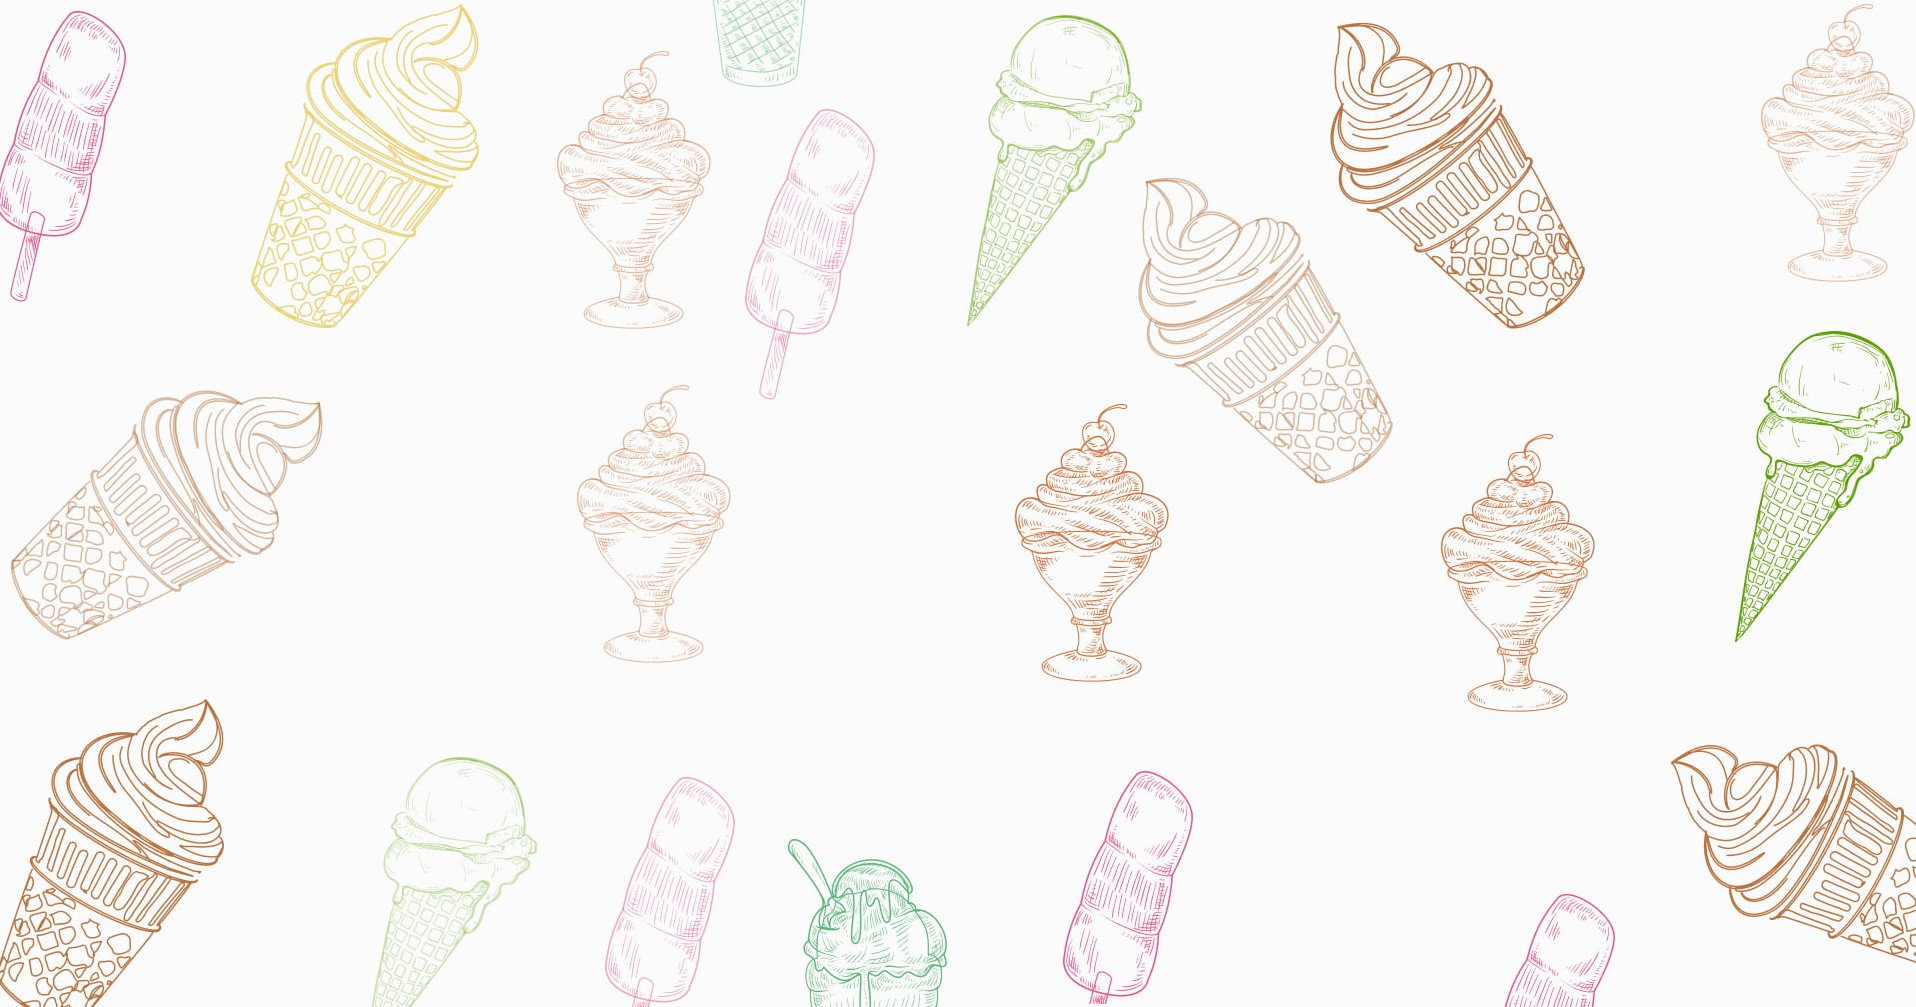
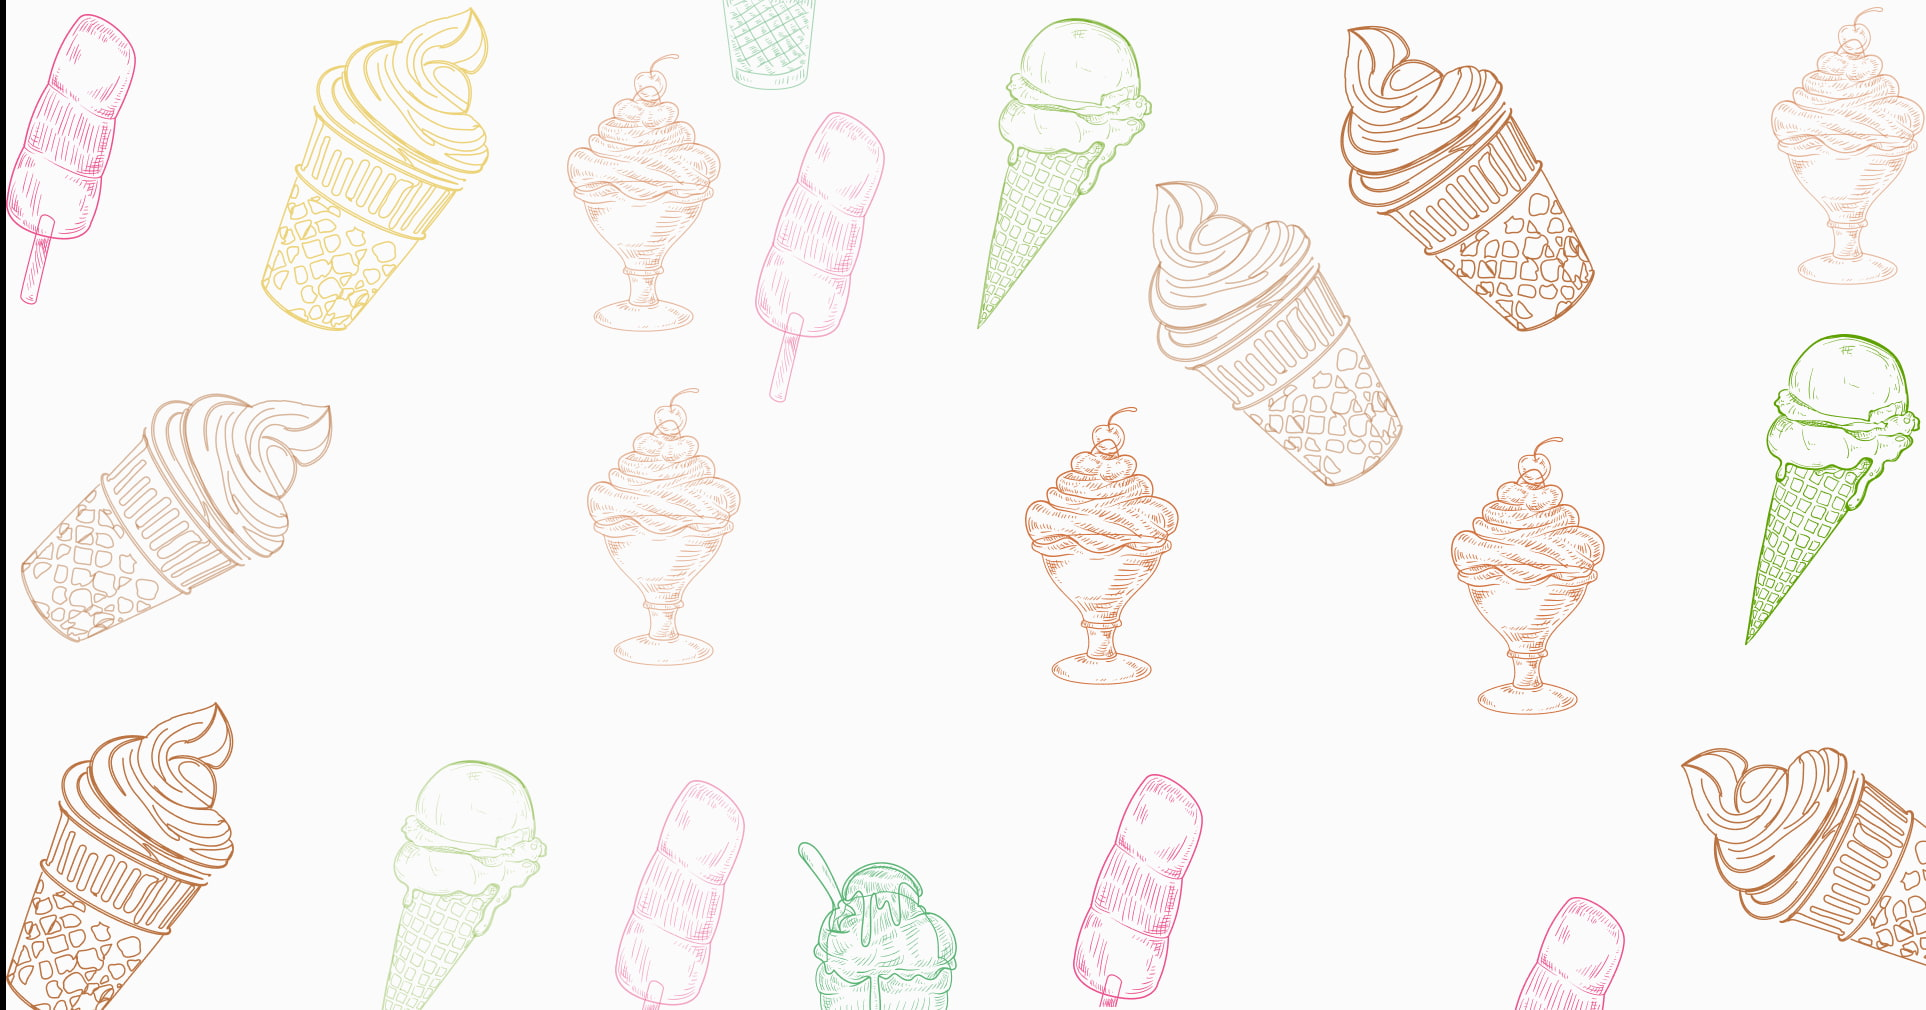
fix

diff --git a/src/partials/reviews.html b/src/partials/reviews.html
@@ -17,9 +17,9 @@
     <div class="slider">
       <div class="reviews__pic">
       <picture>
-        <source srcset="./images/reviews/foto-lg@1x.webp 1x, ./images/reviews/foto-lg@2x.webp 2x" type="image/webp"/>
-        <source srcset="./images/reviews/foto-lg@1x.png 1x, ./images/reviews/foto-lg@2x.png 2x" type="image/png" />
-        <img src="./images/reviews/foto-lg@1x.png" alt="Photo" /> 
+        <source srcset="./images/reviews/foto-3-lg@1x.webp 1x, ./images/reviews/foto-3-lg@2x.webp 2x" type="image/webp"/>
+        <source srcset="./images/reviews/foto-3-lg@1x.png 1x, ./images/reviews/foto-3-lg@2x.png 2x" type="image/png" />
+        <img src="./images/reviews/foto-3-lg@1x.png" alt="Photo" /> 
       </picture>
     </div>
       <p class="review">
@@ -30,9 +30,9 @@
     <div class="slider">
       <div class="reviews__pic">
       <picture>
-        <source srcset="./images/reviews/foto-lg@1x.webp 1x, ./images/reviews/foto-lg@2x.webp 2x" type="image/webp"/>
-        <source srcset="./images/reviews/foto-lg@1x.png 1x, ./images/reviews/foto-lg@2x.png 2x" type="image/png" />
-        <img src="./images/reviews/foto-lg@1x.png" alt="Photo" /> 
+        <source srcset="./images/reviews/foto-2-lg@1x.webp 1x, ./images/reviews/foto-2-lg@2x.webp 2x" type="image/webp"/>
+        <source srcset="./images/reviews/foto-2-lg@1x.png 1x, ./images/reviews/foto-2-lg@2x.png 2x" type="image/png" />
+        <img src="./images/reviews/foto-2-lg@1x.png" alt="Photo" /> 
       </picture>
     </div>
       <p class="review">
@@ -43,9 +43,9 @@
     <div class="slider">
       <div class="reviews__pic">
       <picture>
-        <source srcset="./images/reviews/foto-lg@1x.webp 1x, ./images/reviews/foto-lg@2x.webp 2x" type="image/webp"/>
-        <source srcset="./images/reviews/foto-lg@1x.png 1x, ./images/reviews/foto-lg@2x.png 2x" type="image/png" />
-        <img src="./images/reviews/foto-lg@1x.png" alt="Photo" /> 
+        <source srcset="./images/reviews/foto-1-lg@1x.webp 1x, ./images/reviews/foto-1-lg@2x.webp 2x" type="image/webp"/>
+        <source srcset="./images/reviews/foto-1-lg@1x.png 1x, ./images/reviews/foto-1-lg@2x.png 2x" type="image/png" />
+        <img src="./images/reviews/foto-1-lg@1x.png" alt="Photo" /> 
       </picture>
     </div>
       <p class="review">

diff --git a/src/sass/layouts/_reviews.scss b/src/sass/layouts/_reviews.scss
@@ -7,12 +7,14 @@
     margin-left: auto;
     width: 480px;
     background-image: url(../images/ice-fone.jpg);
+    background-size: cover;
+    
     @media screen and(min-width:768px){
         width: 768px;
         padding-top: 223px;
         }
     @media screen and(min-width:1200px){
-    width: 1200px;
+    width: 100%;
     padding-top: 456px;
     }
 }
@@ -36,20 +38,29 @@
 
 .review{
     @media screen and(min-width:320px) and (max-width:767px){
-        font-weight: 400;
-        font-size: 12px;
-        line-height: 2,55;
+        @include fonts(400, 12px, 31px, null);
+        // font-weight: 400;
+        // font-size: 12px;
+        // line-height: 2,55 ;
     }
 background-color: var(--main-green);
 border-radius: 24px;
-padding: 39px 119px 47px;
+padding: 34px 39px;
+@media screen and(min-width:768px){
+    padding: 29px 80px 28px;
+}
+@media screen and(min-width:1200px){
+    padding: 39px 109px 47px;
+}
+
 margin-bottom: 32px;
 
 font-style: normal;
-font-weight: 500;
-font-size: 16px;
-line-height: 1,86;
-letter-spacing: 0.04em;
+@include fonts(500, 16px, 26px, 0.04em);
+// font-weight: 500;
+// font-size: 16px;
+// line-height: 1.86;
+// letter-spacing: 0.04em;
 }
 
 .slider{
@@ -59,13 +70,14 @@ letter-spacing: 0.04em;
 }
 .review__name{
     @media screen and(min-width:320px) and (max-width:767px){
+        @include fonts(500, 20px, 30px, null);
         font-style: normal;
-        font-weight: 500;
-        font-size: 20px;
-    line-height: 1,86;}
+    //     font-weight: 500;
+    //     font-size: 20px;
+    // line-height: 1.86;
+}
 margin-bottom: 20px;
 font-size: 16px;
-
 
 color: var(--main-dark);
 }
@@ -88,14 +100,14 @@ color: var(--main-dark);
     }
 }    
 
+
 .dots-style {
     text-align: center;
     display: flex;
     justify-content: center;
     align-items: center;
     list-style: none;
-
-  }
+}
 
 .slick-active{
     button{

diff --git a/src/index.html b/src/index.html
@@ -26,7 +26,7 @@
     <script type="module" src="./js/mobile-navigation.js"></script>
     <!-- Modal products js script -->
     <script type="module" src="./js/products-modal.js"></script>
-    <script type="module" src="./js/main.js"></script>
+    <script type="module" src="./js/reviews-slider.js"></script>
     <script type="module" src="./js/about-modal.js"></script>
     <script type="module" src="./js/hero-modal.js"></script>
     <!-- Slick jquery -->
